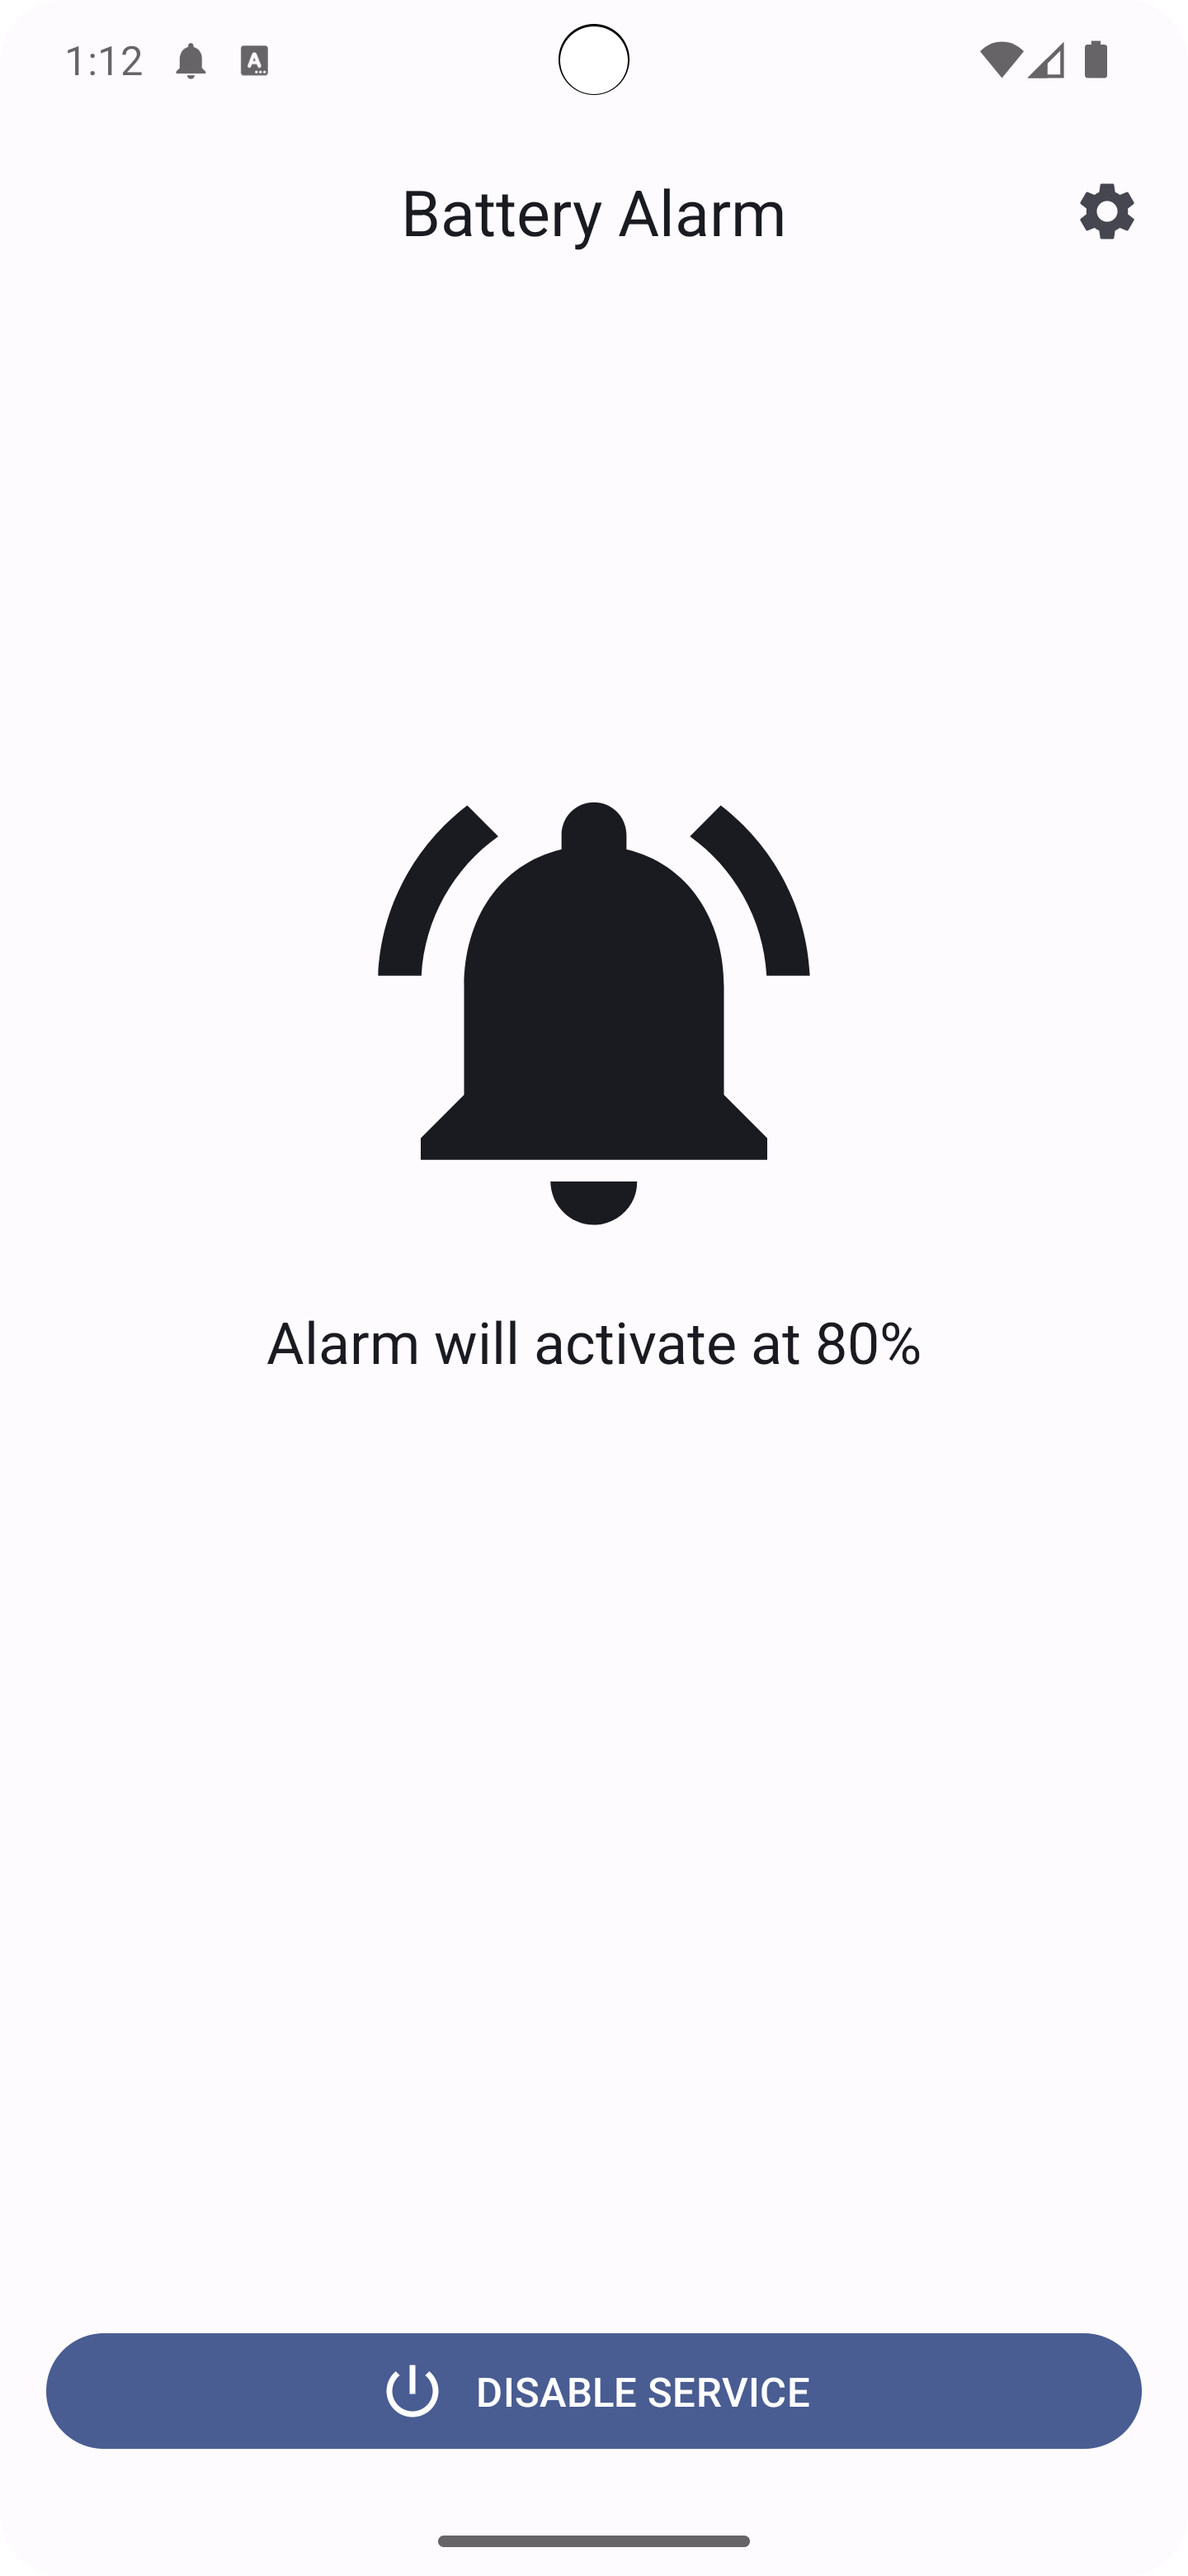
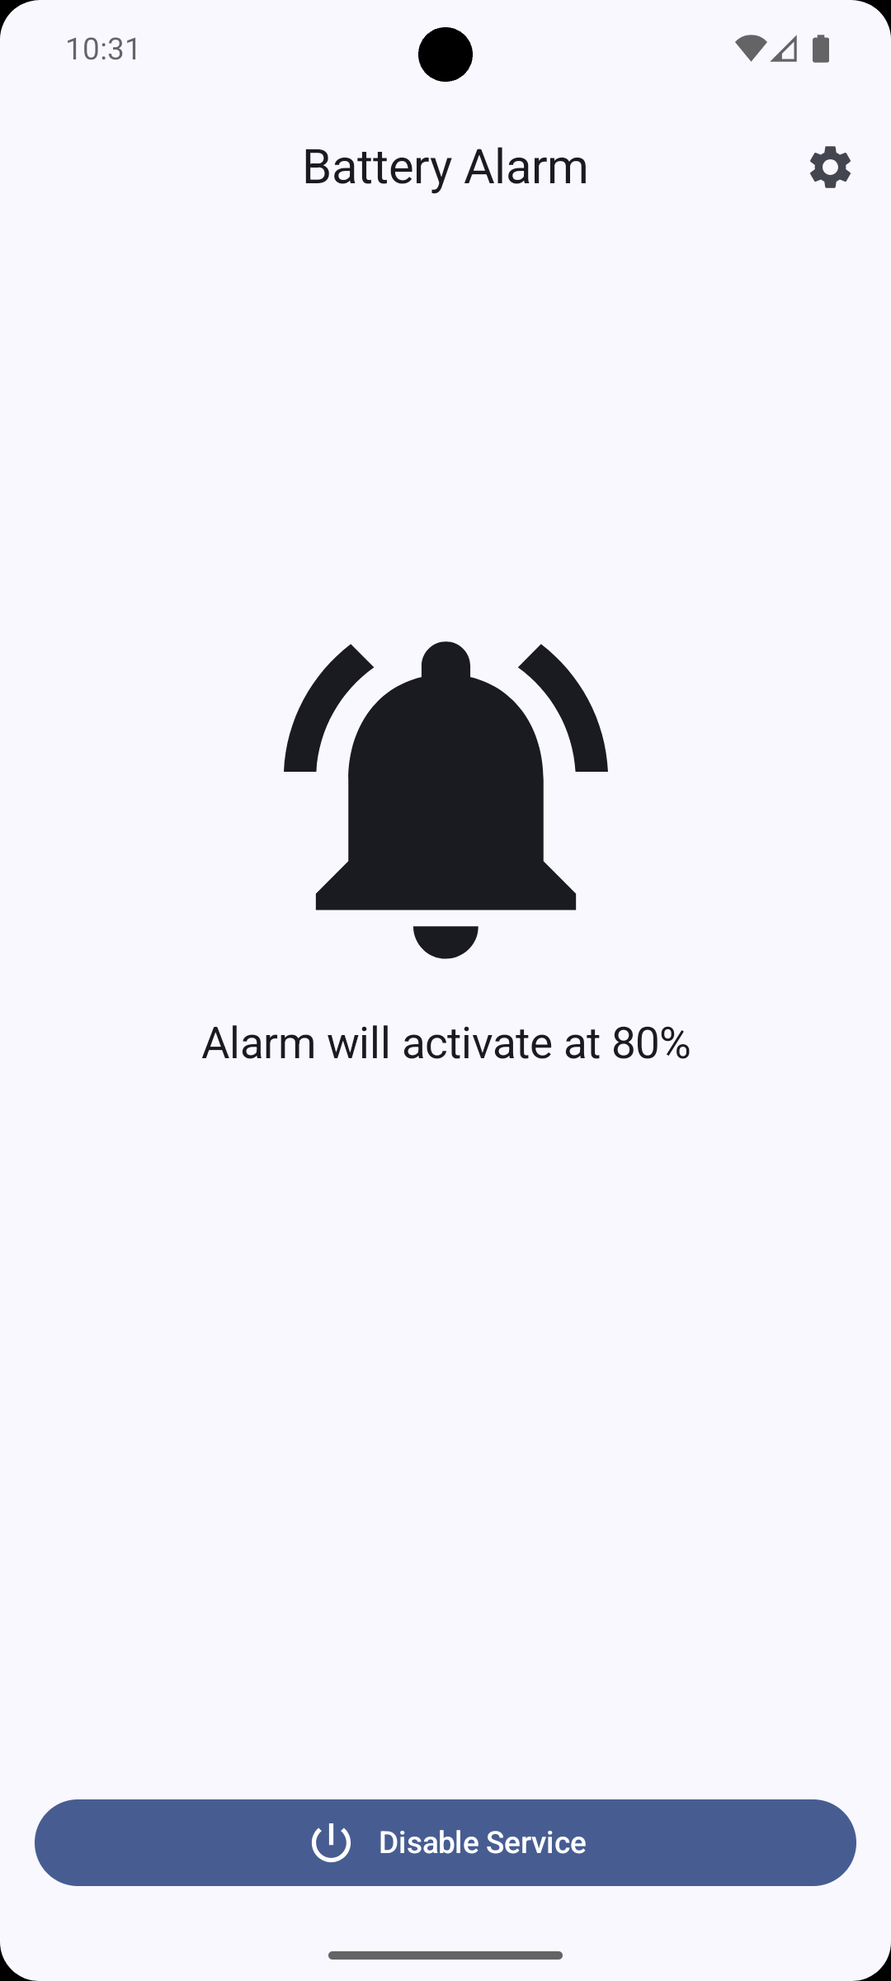
- update to sdk 36 - update developer name - update README & screenshots

diff --git a/README.md b/README.md
@@ -1,6 +1,6 @@
 # Battery Alarm (Kotlin) 🔋⏰
 
-<img src="https://github.com/jagadeesh-k-2802/battery-alarm-android/assets/63912668/9e3f34ba-0be3-424e-b10b-f8ecd8f6c10f" width="750" />
+<img src="fastlane/metadata/android/en-US/images/featureGraphic.jpg" width="750" />
 <br />
 
 Android Application that offers users a customizable alarm feature for monitoring their device's charging status.
@@ -15,9 +15,9 @@ the alarm by unplugging their device.
 
 ## Screenshots 📷
 
-<img src="https://github.com/jagadeesh-k-2802/battery-alarm-android/assets/63912668/1e3aede9-527d-4edc-a45d-07baddb7f082" width="250" />
-<img src="https://github.com/jagadeesh-k-2802/battery-alarm-android/assets/63912668/bcc241d5-1159-4a94-934a-665225d253ce" width="250" />
-<img src="https://github.com/jagadeesh-k-2802/battery-alarm-android/assets/63912668/3bf1af4f-3ced-4413-ba64-7f22d66def3a" width="250" />
+<img src="fastlane/metadata/android/en-US/images/phoneScreenshots/1.png" width="250" />
+<img src="fastlane/metadata/android/en-US/images/phoneScreenshots/2.png" width="250" />
+<img src="fastlane/metadata/android/en-US/images/phoneScreenshots/3.png" width="250" />
 
 ## Build Instructions 🛠
 
